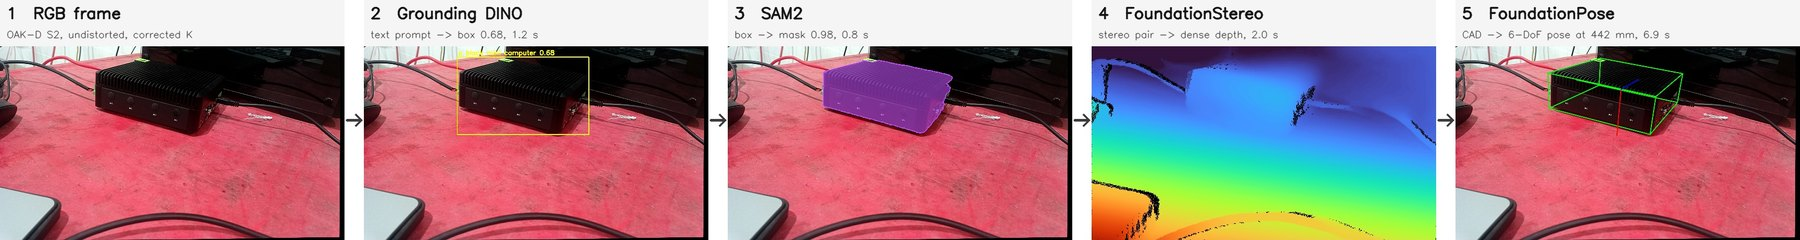
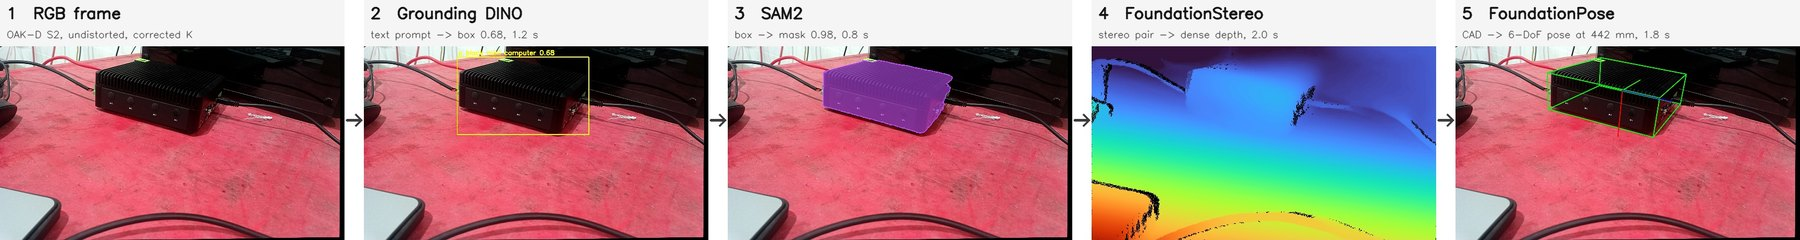
16GB correction: replace 180-deg-flipped pose with corrected result
The capture pack's first FoundationPose figure used a plain black mesh
and was flipped 180 deg on every frame (outline IoU 0.93 hid it). Now:
- painted-CAD pose: antenna caps land on ANT1-4, IoU 0.92,
  repeatability 0.94 mm / 0.48 deg, 1.8 s first estimate, ~70 ms track
- orientation lesson figure (plain vs painted mesh), wrong-CAD caveat
- whole-chain speed 11.4 s -> 4.3 s per object (TensorRT + fixes)
- NanoOWL vs Grounding DINO: 13x faster but grabs the cable
- in-caption note that the earlier figure was replaced

Claude-Session: https://claude.ai/code/session_01Yaz8iCrGDFm35wtKRrcYWg

diff --git a/docs/posts/jetson-foundationpose-16gb.ko.md b/docs/posts/jetson-foundationpose-16gb.ko.md
@@ -140,23 +140,37 @@ description: "2부에서 '16GB 엣지 컴퓨터로는 증명까지, 실전은 64
 | 단계 | 결과 | 시간 |
 |---|---|---|
 | 검출 (Grounding DINO tiny) | 0.68 | 1.2초 |
-| 마스크 (SAM2.1 tiny) | 0.98 | 0.77초 |
-| 깊이 (FoundationStereo) | 빈틈 없는 깊이 | 2.0초 |
-| 자세 (FoundationPose, 첫 자세 추정) | 카메라에서 44cm, 6-DoF | 6.9초 |
+| 마스크 (SAM2.1 tiny) | 0.98 | 0.8초 |
+| 깊이 (FoundationStereo) | 98% 채워진 깊이 | 2.0초 |
+| 자세 (FoundationPose, 첫 자세 추정) | 카메라에서 44cm, 6-DoF | 1.8초 (최적화 전 6.3초) |
+| 이후 추적 (프레임마다) | 같은 자세를 따라감 | 약 70ms, 초당 14프레임 (깊이 계산 제외) |
 
-![FoundationPose가 잡은 자세 — CAD 크기의 상자와 좌표축이 실물에 겹친다](../assets/demos/jetson-live-foundationpose-pose.jpg)
+![FoundationPose가 잡은 자세 — CAD의 안테나 캡(분홍 점)이 실물의 ANT1~4 자리에 정확히 떨어진다](../assets/demos/jetson-live-foundationpose-pose.jpg)
 
-*초록 상자는 CAD의 외곽 크기, 빨강·초록·파랑 선은 물체 좌표축입니다. 이 자세대로 CAD를 화면에 다시 그려 SAM2 마스크와 겹쳐 보면 겹치는 비율(IoU)이 0.934였고, 물체를 그대로 둔 채 네 프레임을 연달아 추정하면 위치는 2.2mm, 각도는 1.4° 안에서 흔들렸습니다.*
+*초록 상자는 CAD의 외곽, 분홍·흰색·초록 점은 CAD에 있는 안테나 캡·포트·단자를 이 자세대로 그린 것입니다. 안테나 캡 네 개가 실물의 ANT1~4 위에 그대로 얹힙니다. CAD 실루엣과 SAM2 마스크가 겹치는 비율(IoU)은 0.92, 물체를 그대로 둔 채 네 프레임을 연달아 추정하면 위치 0.94mm, 각도 0.48° 안에서 흔들렸습니다. (같은 날 먼저 올린 그림은 아래 설명처럼 앞뒤가 180° 뒤집힌 결과여서 교체했습니다.)*
 
-이 숫자를 읽을 때 조심할 점이 두 가지 있습니다.
+여기서 배운 점이 하나 있습니다. 처음에는 CAD를 색 없이 까만 덩어리로 넣었는데, 외곽선은 잘 맞았지만(IoU 0.93) 자세가 **매번 180° 뒤집혀** 있었어요. 이 PC는 앞뒤가 거의 같은 상자라 모양만으로는 앞뒤를 가릴 수 없거든요. CAD에 원래 있는 안테나 캡·포트·단자의 색을 살려 넣자 바로 제 방향을 찾았습니다.
 
-- **정답 자세와 비교한 값이 아닙니다.** 실루엣이 맞는지, 같은 답을 반복하는지를 본 자기 일관성 검사예요. 절대 정확도는 따로 재야 합니다.
-- **CAD가 정확해야 합니다.** 비슷하지만 다른 모델의 CAD를 넣어도 그럴듯한 상자가 나옵니다(IoU 0.78, 맞는 CAD는 0.93). 겉보기로는 구분이 어려우니, CAD 치수를 실물과 먼저 대조해야 합니다.
+![색 없는 CAD는 외곽선은 맞지만 180° 뒤집히고, 색을 입힌 CAD는 제 방향을 찾는다](../assets/demos/jetson-live-foundationpose-orientation.jpg)
+
+그래서 이 숫자를 읽을 때 조심할 점이 세 가지 있습니다.
+
+- **외곽선이 맞는다고 방향까지 맞는 건 아닙니다.** 앞뒤가 비슷한 물체는 CAD에 색이나 특징을 살려 넣고, 이 그림처럼 특징 위치로 방향을 따로 확인해야 합니다.
+- **정답 자세와 비교한 값이 아닙니다.** 방향 특징, 실루엣, 반복성을 본 자기 일관성 검사예요. 절대 정확도는 따로 재야 합니다.
+- **CAD가 정확해야 합니다.** 크기가 다른 비슷한 모델의 CAD를 넣어도 그럴듯한 상자가 나옵니다(IoU 0.78, 맞는 CAD는 0.92). 겉보기로는 구분이 어려우니, CAD 치수를 실물과 먼저 대조해야 합니다.
+
+속도도 더 줄였습니다. 모든 모델을 한 프로세스에 한 번만 올려 두고, 검출기와 SAM2, FoundationPose의 정제 단계를 TensorRT 엔진으로 바꾸고, 느리던 코드 두 곳을 고쳤더니 물체 하나에 **11.4초 → 4.3초**가 됐습니다. 자세 결과는 그대로이고, 메모리는 16GB 중 7.2GB를 씁니다. 이제 가장 오래 걸리는 건 FoundationStereo(2.0초)로, 전체의 절반쯤입니다.
+
+![같은 체인, 같은 Orin NX — TensorRT와 코드 수정으로 물체당 11.4초에서 4.3초로](../assets/demos/jetson-live-chain-speed.jpg)
 
 솔직한 단서 두 개도 남깁니다.
 
 - **말로 지시하는 개방어휘 검출기**(예: Grounding DINO)는 16GB에 올라가고 함께 동작하기도 하는데, 지금 공개된 그 배포용 체크포인트는 상자를 잘 못 잡았습니다. 하드웨어가 아니라 **모델(체크포인트)의 한계**예요. 실제로 다른 공개 체크포인트(Hugging Face의 grounding-dino-tiny)로 바꾸자 위 책상 장면에서는 마우스와 키보드를 제대로 잡았습니다(0.89, 0.76). 어떤 체크포인트를 쓰느냐가 관건입니다. 정해진 부품을 다루는 현장이라면 닫힌집합형(SyntheticaDETR)이 실전 정답이고, 개방어휘는 유연성용 옵션입니다.
 - 마스크를 진짜 SAM2로 뽑든 상자를 사각형으로 쓰든 **최종 자세는 ~1mm/~1° 차이뿐**이었어요. 관심 영역만 대충 맞으면 뒷단(FoundationPose)이 깊이로 마무리하거든요.
+
+검출기를 더 빠른 것으로 바꿔 보기도 했습니다. NanoOWL(OWL-ViT, TensorRT)은 88ms로 Grounding DINO보다 13배 빠르고, 마우스와 미니 PC는 똑같이 잘 찾았어요. 그런데 비스듬히 누운 키보드는 어떤 문구로 불러도 엉뚱한 상자를 냈고, SAM2는 그 상자 안의 케이블을 오려 냈습니다. 빠른 검출기는 미리 확인해 둔 물체에만, 실패 검사와 함께 쓰는 게 맞습니다.
+
+![Grounding DINO와 NanoOWL — 속도는 13배 차이지만, NanoOWL은 키보드 대신 케이블을 잡았다](../assets/demos/jetson-live-detector-compare.jpg)
 
 ## 이번 시행착오가 값진 이유
 

diff --git a/docs/posts/jetson-foundationpose-16gb.en.md b/docs/posts/jetson-foundationpose-16gb.en.md
@@ -140,23 +140,37 @@ The last piece, the 6-DoF pose (FoundationPose), was checked on a real camera to
 | Stage | Result | Time |
 |---|---|---|
 | Detect (Grounding DINO tiny) | 0.68 | 1.2 s |
-| Segment (SAM2.1 tiny) | 0.98 | 0.77 s |
-| Depth (FoundationStereo) | dense depth | 2.0 s |
-| Pose (FoundationPose, first estimate) | 44 cm from the camera, 6-DoF | 6.9 s |
+| Segment (SAM2.1 tiny) | 0.98 | 0.8 s |
+| Depth (FoundationStereo) | 98% filled depth | 2.0 s |
+| Pose (FoundationPose, first estimate) | 44 cm from the camera, 6-DoF | 1.8 s (6.3 s before optimization) |
+| Tracking afterwards (per frame) | follows the same pose | about 70 ms, 14 frames/s (excluding depth) |
 
-![The pose FoundationPose found: a CAD-sized box and the object axes overlaid on the real unit](../assets/demos/jetson-live-foundationpose-pose.jpg)
+![The pose FoundationPose found: the CAD's antenna caps (pink dots) land exactly on the real ANT1–4](../assets/demos/jetson-live-foundationpose-pose.jpg)
 
-*The green box is the CAD's outer size; the red, green and blue lines are the object axes. Rendering the CAD at this pose and overlapping it with the SAM2 mask gives an IoU of 0.934. With the object left in place, four consecutive estimates varied by at most 2.2 mm in position and 1.4° in angle.*
+*The green box is the CAD's outline; the pink, white and green dots are the CAD's antenna caps, ports and terminals drawn at this pose. The four antenna caps sit right on the real ANT1–4. The CAD silhouette overlaps the SAM2 mask at an IoU of 0.92, and with the object left in place, four consecutive estimates varied by at most 0.94 mm and 0.48°. (The figure first posted earlier the same day was the 180°-flipped result described below, and has been replaced.)*
 
-Two cautions when reading these numbers:
+One lesson from this. At first the CAD went in as a plain black mesh. The outline fit well (IoU 0.93), but the pose was **flipped 180° on every frame**. This PC is a box whose front and back look almost the same, so shape alone cannot tell them apart. Keeping the colours of the CAD's own antenna caps, ports and terminals fixed it immediately.
 
-- **They are not measured against a ground-truth pose.** They are self-consistency checks: does the silhouette match, and does it give the same answer again. Absolute accuracy has to be measured separately.
-- **The CAD has to be the right one.** A CAD of a similar but different model still produces a plausible-looking box (IoU 0.78, versus 0.93 for the correct CAD). That is hard to tell by eye, so check the CAD's dimensions against the real part first.
+![A plain CAD fits the outline but is flipped 180°; a painted CAD finds the right orientation](../assets/demos/jetson-live-foundationpose-orientation.jpg)
+
+So there are three cautions when reading these numbers:
+
+- **A matching outline does not mean a correct orientation.** For objects whose sides look alike, keep colour or features in the CAD and check orientation separately from feature positions, as in this figure.
+- **They are not measured against a ground-truth pose.** They are self-consistency checks: orientation features, silhouette and repeatability. Absolute accuracy has to be measured separately.
+- **The CAD has to be the right one.** A CAD of a similar model with a different size still produces a plausible-looking box (IoU 0.78, versus 0.92 for the correct CAD). That is hard to tell by eye, so check the CAD's dimensions against the real part first.
+
+Speed came down further too. With every model loaded once in a single process, the detector, SAM2 and FoundationPose's refinement step moved to TensorRT engines, and two slow code paths fixed, one object now takes **4.3 s instead of 11.4 s**. The pose result is unchanged, and memory use is 7.2 of 16 GB. The slowest stage is now FoundationStereo (2.0 s), about half the total.
+
+![Same chain, same Orin NX: TensorRT and code fixes take it from 11.4 s to 4.3 s per object](../assets/demos/jetson-live-chain-speed.jpg)
 
 Two honest footnotes:
 
 - The **language-promptable open-vocabulary detector** (e.g. Grounding DINO) loads and co-runs on 16 GB, but the currently-published deployable checkpoint localized poorly — a **model (checkpoint) limitation, not the board**. Switching to a different public checkpoint (grounding-dino-tiny on Hugging Face) did find the mouse and keyboard in the desk scene above (0.89, 0.76), so the choice of checkpoint is what matters. For fixed, known parts a closed-set detector (SyntheticaDETR) is the production answer; open-vocab is a flexibility option.
 - Whether the mask came from real SAM2 or a box-shaped rectangle, **the final pose moved by only ~1 mm / ~1°** — once the region of interest is roughly right, the back end (FoundationPose) finishes the job with depth.
+
+We also tried a faster detector. NanoOWL (OWL-ViT, TensorRT) takes 88 ms, 13× faster than Grounding DINO, and found the mouse and the mini PC just as well. But for the keyboard lying at a grazing angle it returned a wrong box under every prompt, and SAM2 then cut out the cable inside that box. A fast detector belongs only on objects you have already checked, with a failure check behind it.
+
+![Grounding DINO vs NanoOWL: 13× apart in speed, but NanoOWL grabbed the cable instead of the keyboard](../assets/demos/jetson-live-detector-compare.jpg)
 
 ## Why this digging was worth it
 
